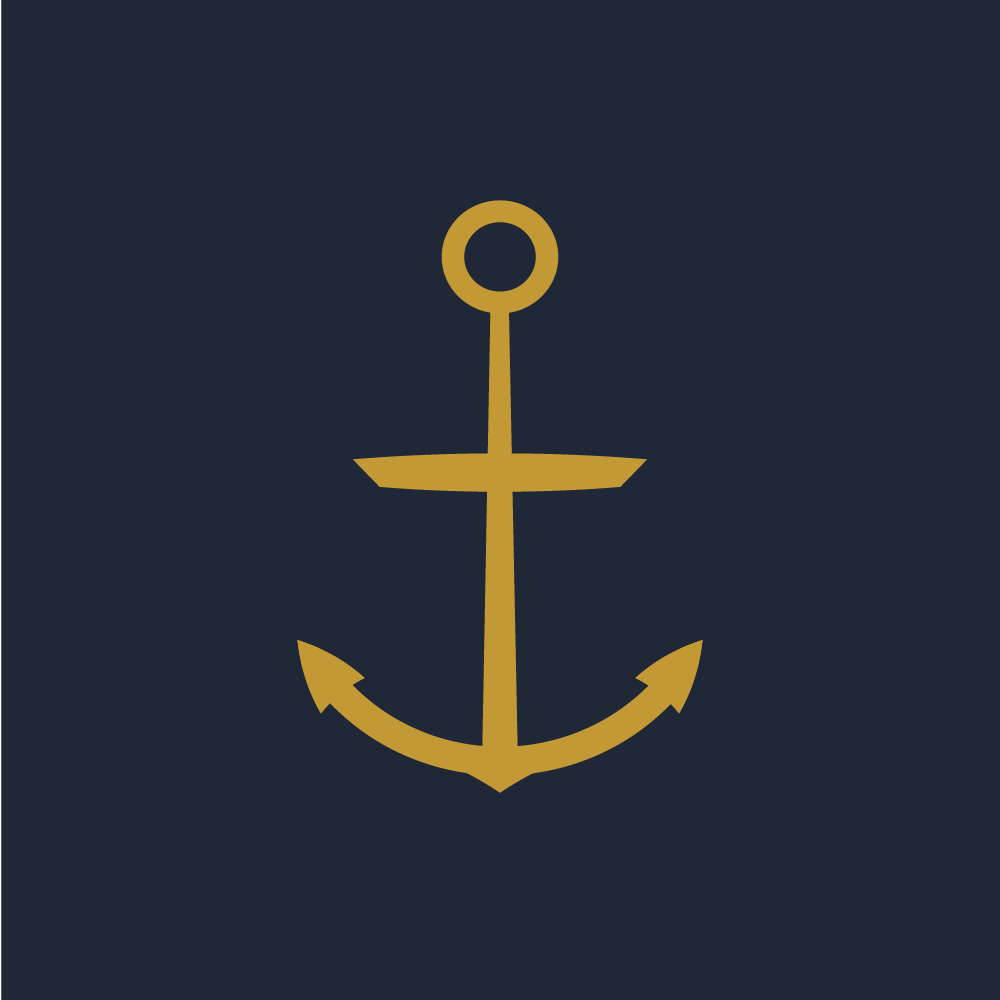
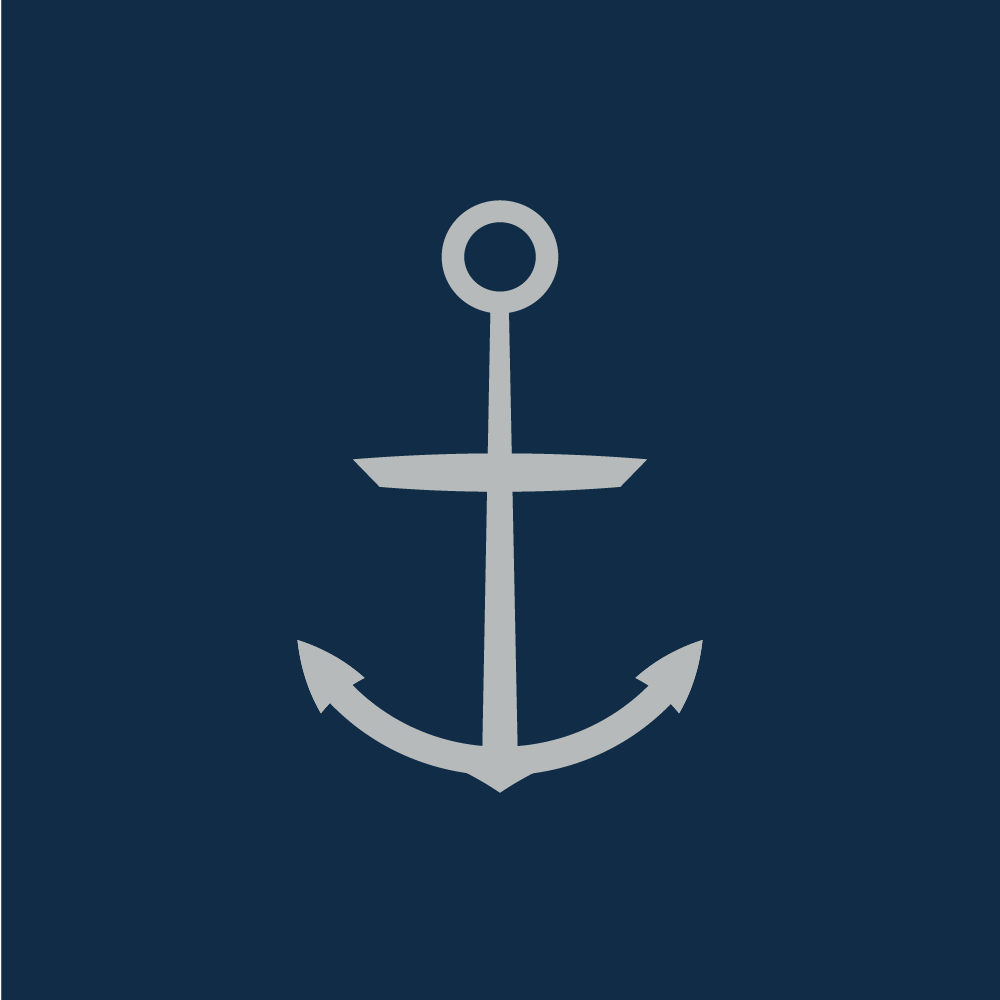
Fixed colors for app

Changed region(s): [[0.279, 0.186, 0.713, 0.806]]

diff --git a/app/components/common/ActivityList.js b/app/components/common/ActivityList.js
@@ -4,7 +4,7 @@ import firebase from 'firebase';
 import Icon from 'react-native-vector-icons/MaterialIcons';
 import { ActivityDetail } from './';
 import { getCurrentUser } from '../../models/User';
-import { ACCENT_COLOR } from '../../config';
+import { DARK_GRAY, ACCENT_COLOR } from '../../config';
 import { TeacherProfile } from '../screens';
 
 const { width, height } = Dimensions.get('window');
@@ -114,7 +114,7 @@ class ActivityList extends Component {
             refreshing={this.state.refreshing}
             onRefresh={this.getActivityList.bind(this)}
             colors={[ACCENT_COLOR]}
-            tintColor={ACCENT_COLOR}
+            tintColor={DARK_GRAY}
           />
         }
       >

diff --git a/app/components/common/LoginButton.js b/app/components/common/LoginButton.js
@@ -1,7 +1,7 @@
 import React from 'react';
 import { Text, TouchableOpacity, View, Dimensions } from 'react-native';
 import Icon from 'react-native-vector-icons/MaterialCommunityIcons';
-import { LIGHT_BLUE } from '../../config';
+import { ACCENT_COLOR } from '../../config';
 
 const { width, height } = Dimensions.get('window');
 
@@ -23,7 +23,7 @@ const LoginButton = (props) => {
 
 const styles = {
   containerStyle: {
-    backgroundColor: LIGHT_BLUE,
+    backgroundColor: ACCENT_COLOR,
     marginBottom: 0.1 * 0.4 * height,
     width: 0.88 * width,
     height: 0.2 * 0.4 * height,

diff --git a/app/components/common/ErrorMessage.js b/app/components/common/ErrorMessage.js
@@ -1,6 +1,6 @@
 import React, { Component } from 'react';
 import { View, Modal, Text, Dimensions, TouchableOpacity } from 'react-native';
-import { MAIN_COLOR, LIGHT_BLUE } from '../../config';
+import { MAIN_COLOR, ACCENT_COLOR } from '../../config';
 
 const { width, height } = Dimensions.get('window');
 
@@ -52,7 +52,7 @@ const styles = {
   },
   buttonStyle: {
     flex: 1,
-    backgroundColor: LIGHT_BLUE,
+    backgroundColor: ACCENT_COLOR,
     width: 0.8 * width,
     justifyContent: 'center',
   },

diff --git a/app/config/index.js b/app/config/index.js
@@ -1,8 +1,8 @@
 // colors
-export const STATUS_BAR_COLOR = '#1a202c';
-export const MAIN_COLOR = '#202837';
-export const ACCENT_COLOR = '#c39935';
+export const STATUS_BAR_COLOR = '#0d2338';
+export const MAIN_COLOR = '#102c46';
+export const ACCENT_COLOR = '#8b2b2b';
 export const LIGHT_GRAY = '#d5d5d5';
-export const LIGHT_BLUE = '#3f4f6d';
 export const BOTTOM_BAR_COLOR = '#efefef';
 export const BOTTOM_BAR_ICON_COLOR = '#404040';
+export const DARK_GRAY = '#333';

diff --git a/app/components/screens/SplashScreen.js b/app/components/screens/SplashScreen.js
@@ -25,7 +25,7 @@ class SplashScreen extends Component {
       <View style={styles.viewStyle}>
         <StatusBar backgroundColor={STATUS_BAR_COLOR} />
         <Image source={logo} style={styles.logoStyle} />
-         {this.checkForUser()}
+           {this.checkForUser()} 
       </View>
     );
   }
